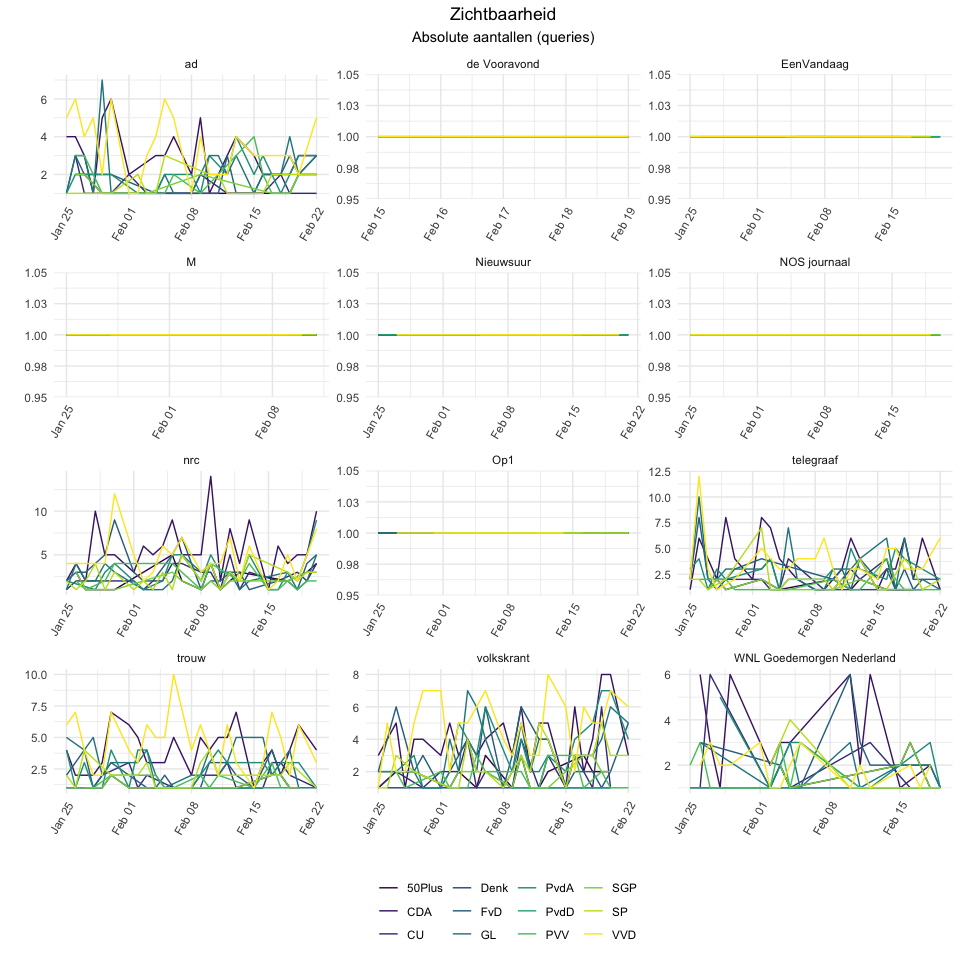
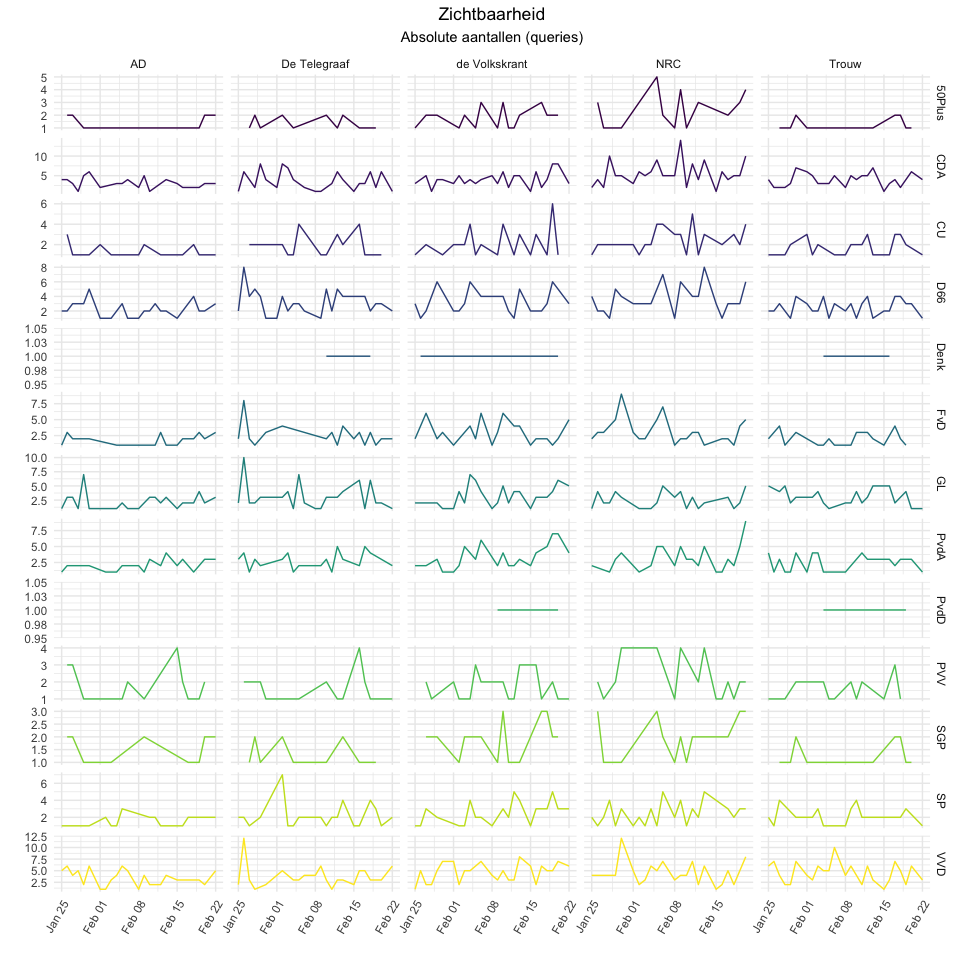
add duiding wave 1

diff --git a/docs/reports/wave1/wave1_nrc.md b/docs/reports/wave1/wave1_nrc.md
@@ -1,39 +1,81 @@
 VU 2021 Election Study: Media aandacht van politici en de waardering van
 kiezers
 ================
-Mariken van der Velden - rest will follow
-
-# NRC Vragen
-
-  - Welke politici waren in welke media?
-  - Welke partij kreeg de meeste woorden?
-  - Welke partij de meeste zendtijd?
-  - Wat vonden de kiezersgroepen van die optredens? Waardering?
-  - Wat is ervan blijven hangen? Is er enig verschil in waardering
-    tussen tv, kranten, socials?
-  - Wat vonden de zwevers ervan? Hebben ze al een keuze kunnen maken? En
-    was een bepaald optreden daarbij belangrijk? Of hebben ze niet
-    gekeken?
+Mariken van der Velden
 
 # Politici in de Media
 
-<img src="visibility media-1.png" style="display: block; margin: auto;" />
+Met de campagne in de stijgers, zullen we zien dat politici de komende
+meer en meer in de media verschijnen. Om te kijken waar welke politici
+het meest zichtbaar zijn, kijken we naar de 5 grote Nederlandse kranten
+(AD, De Telegraaf, de Volkskrant, NRC en Trouw), en de TV programma’s
+EenVandaag, M, Nieuwsuur, NOS Journaal, Op1 en de Vooravond. Het
+bovenste gedeelte van onderstaand figuur laat de zichtbaarheid in de
+kranten zien. Van alle kranten krijgt 50Plus het meeste aandacht van de
+NRC. Dat geldt ook voor het CDA, D66, FvD, PVV en de SGP – dus
+waarschijnlijk besteed de NRC het meeste aandacht aan politiek. Het CU
+wordt vaker genoemd in de Volkskrant en De Telegraaf noemt GL en Klaver
+het meeste.
+
+Over de partijen heen, kunnen we stellen dan in de kranten AD, de
+Volkskrant en Trouw doet over de afgelopen 3 weken de VVD met Mark Rutte
+het het beste in termen van zichtbaarheid. De PvdA is eind januari,
+gedurende de toeslagenaffaire en het aftreden van Asscher, veel te zien.
+In het NRC is begin januari het CDA de koploper in termen van
+zichtbsarheid. In De Telegraaf doet ook GroenLinks mee in het krijgen
+van meer aandacht dan de andere partijen.
+
+Het onderste gedeelte van onderstaand figuur laat zien dat voor de
+meeste tv-programma’s de politieke partijen en hun lijsttrekker 1 keer
+per avond genoemd worden – Note: het gaat om de ondertiteling die we
+hier analyseren. Dit patroon is anders voor WNL’s Goedemorgen Nederland
+(links in onderstaand figuur), waar we zien dat de VVD en het CDA aan
+het eind van januari het meeste aandacht kreeg. Meer recentelijk zijn
+dat 50PLus, SGP en de
+PVV.
+
+<a name="visibility media"></a>
+
+<div class="figure" style="text-align: center">
+
+<img src="visibility media-1.png" alt="Politici's Zichtbaarheid in de Media"  />
+
+<p class="caption">
+
+Politici’s Zichtbaarheid in de
+Media
+
+</p>
+
+</div>
+
+<div class="figure" style="text-align: center">
+
+<img src="visibility media-2.png" alt="Politici's Zichtbaarheid in de Media"  />
+
+<p class="caption">
+
+Politici’s Zichtbaarheid in de Media
+
+</p>
+
+</div>
 
 # Kiezersperspectief
 
 ## Wat vonden de kiezersgroepen van politici ’s media optredens?
 
-In het linker gedeelte van Figuur @ref{fig:algemeen} is te zien dat van
-alle lijsttrekkers is Mark Rutte (VVD) voor kiezers het meest zichtbaar
-in de media. Hij wordt op de voet gevolgd door Geert Wilder (PVV), Wopke
+In het linker gedeelte van onderstaand figuur is te zien dat van alle
+lijsttrekkers is Mark Rutte (VVD) voor kiezers het meest zichtbaar in de
+media. Hij wordt op de voet gevolgd door Geert Wilder (PVV), Wopke
 Hoekstra (CDA), en Thierry Baudet (FvD). Lijsttrekkers Gert-Jan Segers
 (CU), Kees van de Staaij (SGP), Esther Ouwehand (PvdD), Liane den Haan
 (50+), en Farid Azarkan (Denk) worden door de kiezers als zeer
 onopvallend aangemerkt. Dat is vooral voor regeringspartij CU opvallend,
 omdat regeringsparijen vaak opvallender zijn dan oppositiepartijen.
 
-In het rechter gedeelte van Figuur @ref{fig:algemeen} wordt weergegeven
-of de lijstrtekkers en hun politieke partij positief of negatieve media
+In het rechter gedeelte van onderstaand figuur wordt weergegeven of de
+lijstrtekkers en hun politieke partij positief of negatieve media
 aandacht kregen in de ogen van de kiezer. De gemiddeldes laten zien dat
 als politici voor kiezers zichtbaar waren in de media, dat het dan
 meestal positief was - bijna alle politici krijgen een score van 5.5 of
@@ -43,11 +85,11 @@ kiezer.
 
 <div class="figure" style="text-align: center">
 
-<img src="Media Performance Politiek - algemeen-1.png" alt="\label{fig:algemeen}Figuur 1"  />
+<img src="Media Performance Politiek - algemeen-1.png" alt="Media Performance Politiek - algemeen"  />
 
 <p class="caption">
 
-Figuur 1
+Media Performance Politiek - algemeen
 
 </p>
 
@@ -55,28 +97,27 @@ Figuur 1
 
 Wanneer we specifieker kijken naar wat mensen vinden van de
 lijstttrekkers in de media als a) je voor de partij stemt (paarse staven
-in onderstaande Figuur @ref{fig:kiezers}); b) je de partij graag in de
-nieuwe regering zien (blauwe staven in onderstaande Figuur
-@ref{fig:kiezers}); c) je nog een zwevende kiezer bentt (groene staven
-in onderstaande Figuur @ref{fig:kiezers}); en d) je niet gaat stemmen
-(gele staven in onderstaande Figuur @ref{fig:kiezers}).
+in onderstaand figuur); b) je de partij graag in de nieuwe regering zien
+(blauwe staven in onderstaand figuur); c) je nog een zwevende kiezer
+bentt (groene staven in onderstaande figuur); en d) je niet gaat stemmen
+(gele staven in onderstaand figuur).
 
 Voor de meeste politici geldt dat ongeacht of je op de partij stemt of
 deze partij graag in de nieuwe regering ziet, de lijsttrekker even
-(on)opvallend is (linkerzijde van Figuur @ref{fig:kiezers}). Het partoon
-wie opvalt en wie niet is vrijwel hetzelfde als het algemene partoon
-zoals beschreven bij bovenstaand figuur.
+(on)opvallend is (linkerzijde van onderstaand figuur). Het partoon wie
+opvalt en wie niet is vrijwel hetzelfde als het algemene partoon zoals
+beschreven bij bovenstaand figuur.
 
 Voor de niet-stemmers geldt dat voor hen alleen Rutte en Wilders
 enigszins opgevallen zijn in de media. Wanneer we kijken naar de
-waardering van de politici in de media, in de rechterzijde van Figuur
-@ref{fig:kiezers}, is het opvallend dat als niet-stemmers Van der Staaij
-in de media zagen, zij heel veel waardering voor hem hebben: het hoogste
-gemiddelde. Deze groep heeft weer een veel lagere waardering voor Rutte,
-als deze hem is opgevallen in de media.
+waardering van de politici in de media, in de rechterzijde van
+onderstaand figuur, is het opvallend dat als niet-stemmers Van der
+Staaij in de media zagen, zij heel veel waardering voor hem hebben: het
+hoogste gemiddelde. Deze groep heeft weer een veel lagere waardering
+voor Rutte, als deze hem is opgevallen in de media.
 
-Voor de rest laat de rechterzijde van Figuur @ref{fig:kiezers} zien, dat
-de waardering tussen de vier type stemmersgroepen niet verschilt. Alle
+Voor de rest laat de rechterzijde van onderstaand figuur zien, dat de
+waardering tussen de vier type stemmersgroepen niet verschilt. Alle
 gemiddeldes, behalve die van Denk en FvD, schommelen rond de 5, wat
 aangeeft dat in alle vier type kiezersgroepen mensen de lijsttrekkers’
 media optredens zowel positief als negatief
@@ -84,28 +125,28 @@ beoordelen.
 
 <div class="figure" style="text-align: center">
 
-<img src="Media Performance Politiek - kiezersgroepen-1.png" alt="\label{fig:kiezers}Figuur 2"  />
+<img src="Media Performance Politiek - kiezersgroepen-1.png" alt="Media Performance Politiek - Kiezersgroepen"  />
 
 <p class="caption">
 
-Figuur 2
+Media Performance Politiek - Kiezersgroepen
 
 </p>
 
 </div>
 
-Figuur @ref{fig:mediazicht} zoomt nog verder in op het mediagebruik
-(krant, socials en tv) van de verschillende kiezersgroepen. In het panel
-linksboven van Figuur @ref{fig:mediazicht} zien we hoe zichtbaar
-politici waren voor kiezers die nauwelijks (minder dan 3 dagen per week)
-de krant lazen in de afgelopen twee weken; middenboven en rechtsboven
-laat respectievelijk zien hoe zichtbaar politici waren voor kiezers die
+Onderstaand figuur zoomt nog verder in op het mediagebruik (krant,
+socials en tv) van de verschillende kiezersgroepen. In het panel
+linksboven van onderstaand figuur zien we hoe zichtbaar politici waren
+voor kiezers die nauwelijks (minder dan 3 dagen per week) de krant lazen
+in de afgelopen twee weken; middenboven en rechtsboven laat
+respectievelijk zien hoe zichtbaar politici waren voor kiezers die
 nauwelijks social media gebruiken en tv kijken. In de middelste rij van
-Figuur @ref{fig:mediazicht} zien we hoe zichtbaar politici waren voor
-kiezers die regelmatig (3-5 dagen per week) de media (krant, socials en
-tv) gebruiken. De onderste rij van Figuur @ref{fig:mediazicht} laat
-hetzelfde zien voor kiezers die vaak (meer dan 5 dagen per week) de
-media (krant, socials en tv) gebruiken.
+onderstaand figuur zien we hoe zichtbaar politici waren voor kiezers die
+regelmatig (3-5 dagen per week) de media (krant, socials en tv)
+gebruiken. De onderste rij van onderstaand figuur laat hetzelfde zien
+voor kiezers die vaak (meer dan 5 dagen per week) de media (krant,
+socials en tv) gebruiken.
 
 Het patroon is over de 9 verschillende panels grofweg hetzelfde:
 ongeacht mediatype en -gebruik is Rutte, gevolgd door Wilders, het meest
@@ -115,39 +156,37 @@ als je niet van plan bent om te gaan stemmen, de lijsttrekkers minder
 opvallend zijn dan voor de mensen die wel van plan zijn te gaan stemmen.
 
 Wat vooral opvalt is de zwevende kiezer die regelmatig tv gebruikt
-(midden-rechter panel van Figuur @ref{fig:mediazicht}). Voor deze groep
-zijn alle politici behalve Rutte meer opvallend dan voor de mensen die
-al weten dat ze op die partij gaan stemmen dan wel de partij graag terug
-in de regering zien. Dit zou erop kunnen wijzen, omdat we weten dat de
-meeste mensen tv gebruiken om informatie te krijgen over politieke
+(midden-rechter panel van onderstaand figuur). Voor deze groep zijn alle
+politici behalve Rutte meer opvallend dan voor de mensen die al weten
+dat ze op die partij gaan stemmen dan wel de partij graag terug in de
+regering zien. Dit zou erop kunnen wijzen, omdat we weten dat de meeste
+mensen tv gebruiken om informatie te krijgen over politieke
 actualiteiten, dat deze groep zich echt aan het opmaken is om hun keuze
 nu al te maken, met nog 3,5 week of campagnes te
 gaan.
 
 <div class="figure" style="text-align: center">
 
-<img src="Media Performance Politiek - kiezersgroepen + mediatype-1.png" alt="\label{fig:mediazicht}Figuur 3"  />
+<img src="Media Performance Politiek - kiezersgroepen + mediatype-1.png" alt="Media Performance Politiek - kiezersgroepen + mediatype"  />
 
 <p class="caption">
 
-Figuur 3
+Media Performance Politiek - kiezersgroepen + mediatype
 
 </p>
 
 </div>
 
-Figuur @ref{fig:mediawaard} laat zien hoe de waardering voor de
-lijsttrekkers verschilt per mediatype en -gebruik voor de 4 type
-kiezersgroepen, zien we dat de niet-stemmers voornamelijk opvallen.
-Hoewel Figuren@ref{fig:algemeen}, @ref{fig:kiezers},
-@ref{fig:mediazicht} steeds laat zien dat voor deze groep politici
-minder opvallen, als ze dan opvallen dan zijn het vooral de kleinere
-partijen en de christelijke partijen waar zij erg tevreden over zijn.
-Dit is nog het duidelijkst te zien voor de groep niet-stemmers die
-regelmatig de krant leest (midden-linker panel van Figuur
-@ref{fig:mediawaard}), maar het is ook te zien voor degenen die vaak
-socials of tv gebruiken om iets te weten te komen over politieke
-actualiteiten.
+Onderstaand figuur laat zien hoe de waardering voor de lijsttrekkers
+verschilt per mediatype en -gebruik voor de 4 type kiezersgroepen, zien
+we dat de niet-stemmers voornamelijk opvallen. Hoewel de bovenstaande
+figuren steeds laat zien dat voor deze groep politici minder opvallen,
+als ze dan opvallen dan zijn het vooral de kleinere partijen en de
+christelijke partijen waar zij erg tevreden over zijn. Dit is nog het
+duidelijkst te zien voor de groep niet-stemmers die regelmatig de krant
+leest (midden-linker panel van onderstaand figuur), maar het is ook te
+zien voor degenen die vaak socials of tv gebruiken om iets te weten te
+komen over politieke actualiteiten.
 
 Voor de groep die vaak media grbruikt, zien we dat veel politici hoger
 gewaardeerd worden als ze in de media kwamen voor de zwevende kiezer dan
@@ -168,19 +207,18 @@ Figuur 4
 
 </div>
 
-In Figuur @ref{fig:mediazweef} kijken we naar het media gebruik van de
-zwevende kiezer, vergeleken met degenen die hun stem al zeggen bepaald.
-Kijkend naar geschreven media, waar zowel de geprinte krant, de websites
-als de niewsapps onder vallen, laat het linker panel van Figuur
-@ref{fig:mediazweef} zien dat zwevende kiezers geen Elsevier, Vrij
-Nederland of HP/de tijd lezen noch de websites van *Joop* en *The Post
-Online* bekijken. De zwevende kiezer maakt net zoals de “zekere kiezer”
-evenveel gebruik van de *nu.nl* website en app. Ook lezen beide groepen
-even vaak lokale of regionale dagbladen. Zwevende kiezers maken vaker
-gebruik van *Blendle* en lezen de *Groene Amsterdammer* vaker. De
-“zekere kiezer” leest vaker traditionele kranten zoals *AD*, *de
-Volkskrant*, *NRC*, en *Trouw*. *De Telegraaf* wordt door beide groepen
-evenveel gelezen.
+In onderstaand figuur kijken we naar het media gebruik van de zwevende
+kiezer, vergeleken met degenen die hun stem al zeggen bepaald. Kijkend
+naar geschreven media, waar zowel de geprinte krant, de websites als de
+niewsapps onder vallen, laat het linker panel van onderstaand figuur
+zien dat zwevende kiezers geen Elsevier, Vrij Nederland of HP/de tijd
+lezen noch de websites van *Joop* en *The Post Online* bekijken. De
+zwevende kiezer maakt net zoals de “zekere kiezer” evenveel gebruik van
+de *nu.nl* website en app. Ook lezen beide groepen even vaak lokale of
+regionale dagbladen. Zwevende kiezers maken vaker gebruik van *Blendle*
+en lezen de *Groene Amsterdammer* vaker. De “zekere kiezer” leest vaker
+traditionele kranten zoals *AD*, *de Volkskrant*, *NRC*, en *Trouw*. *De
+Telegraaf* wordt door beide groepen evenveel gelezen.
 
 Wat ook opvalt is dat de zwevende kiezer vaker dan de “zekere kiezer”
 andere kranten, blogs of apps gebruikt dan de meest voorkomenden. Let
@@ -198,28 +236,28 @@ Wilders, MSN, RTL niews en websites van politieke partijen (SGP, SP, en
 VVD) als alternatieve nieuwsblogs; en voornamelijk regionale
 nieuwszenders als alternatieve websites.
 
-Kijkend naar het middelste panel van Figuur @ref{fig:mediazweef}, zien
-we dat *Facebook* het populairste sociale medium is, gevolgd door
-*Whatsapp*, voor zowel zwevende als “zekere” kiezers. *Twitter* en
-*Instagram* worden minder vaak gebruikt door de zwevende kiezer.
-*Youtube* wordt door zowel zwevende als zekere kiezers als derde meeste
-gebruikt onder de sociale media opties. Kijkend naar de TV opties in de
-rechterzijde van Figuur @ref{fig:mediazweef}, zien we ook dat veel
-kiezers (zwevend of niet) kijken naar eigen kanalen van politici en
-opiniemakers. Ongeveer evenveel mensen geven aan dit als nieuwsbron te
-gebruiken als het *NOS journaal*. Zwevende kiezers kijken niet naar
-*Hart van Nederland*, en ook minder naar *M*, *Nieuwsuur*, *Eenvandaag*,
-*De Vooravond*, *Zondag met Lubach*, *Beau* en *WNL opiniemakers*. Ze
-kijken meer dan de zekere kiezer naar *Jinek* en *Dit was het
+Kijkend naar het middelste panel van onderstaand figuur, zien we dat
+*Facebook* het populairste sociale medium is, gevolgd door *Whatsapp*,
+voor zowel zwevende als “zekere” kiezers. *Twitter* en *Instagram*
+worden minder vaak gebruikt door de zwevende kiezer. *Youtube* wordt
+door zowel zwevende als zekere kiezers als derde meeste gebruikt onder
+de sociale media opties. Kijkend naar de TV opties in de rechterzijde
+van onderstaand figuur, zien we ook dat veel kiezers (zwevend of niet)
+kijken naar eigen kanalen van politici en opiniemakers. Ongeveer
+evenveel mensen geven aan dit als nieuwsbron te gebruiken als het *NOS
+journaal*. Zwevende kiezers kijken niet naar *Hart van Nederland*, en
+ook minder naar *M*, *Nieuwsuur*, *Eenvandaag*, *De Vooravond*, *Zondag
+met Lubach*, *Beau* en *WNL opiniemakers*. Ze kijken meer dan de zekere
+kiezer naar *Jinek* en *Dit was het
 nieuws*.
 
 <div class="figure" style="text-align: center">
 
-<img src="Mediagebruik Zwevende Kiezers-1.png" alt="\label{fig:mediazweef}Figuur 5"  />
+<img src="Mediagebruik Zwevende Kiezers-1.png" alt="Mediagebruik Zwevende Kiezers"  />
 
 <p class="caption">
 
-Figuur 5
+Mediagebruik Zwevende Kiezers
 
 </p>
 
